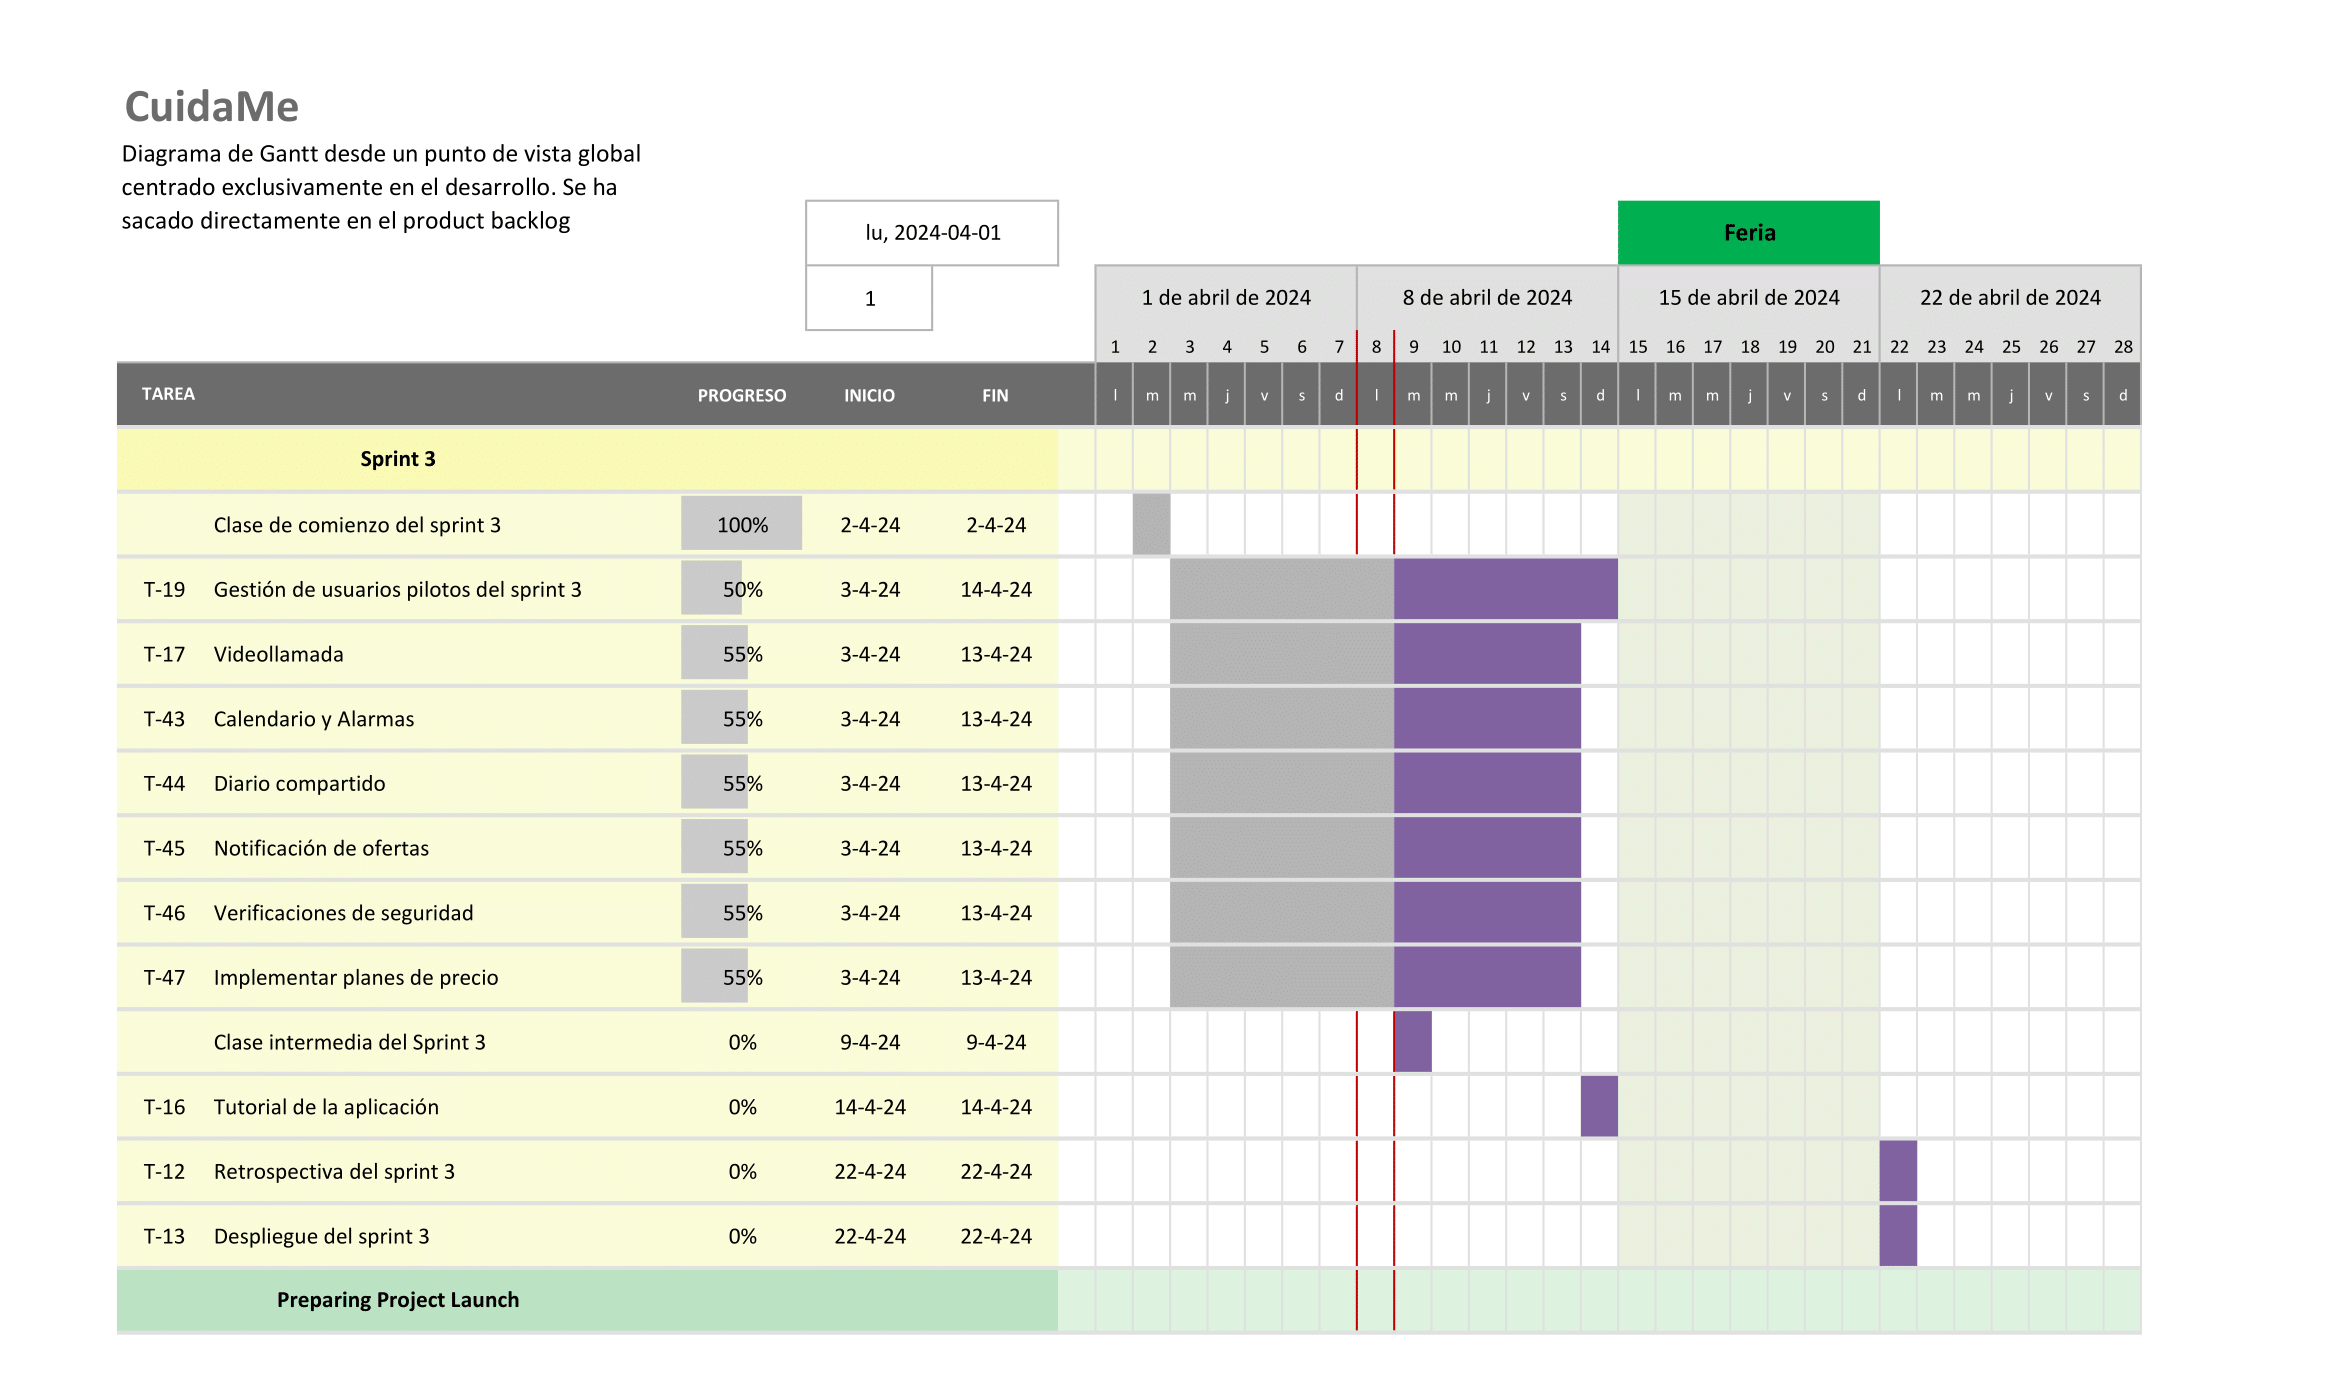
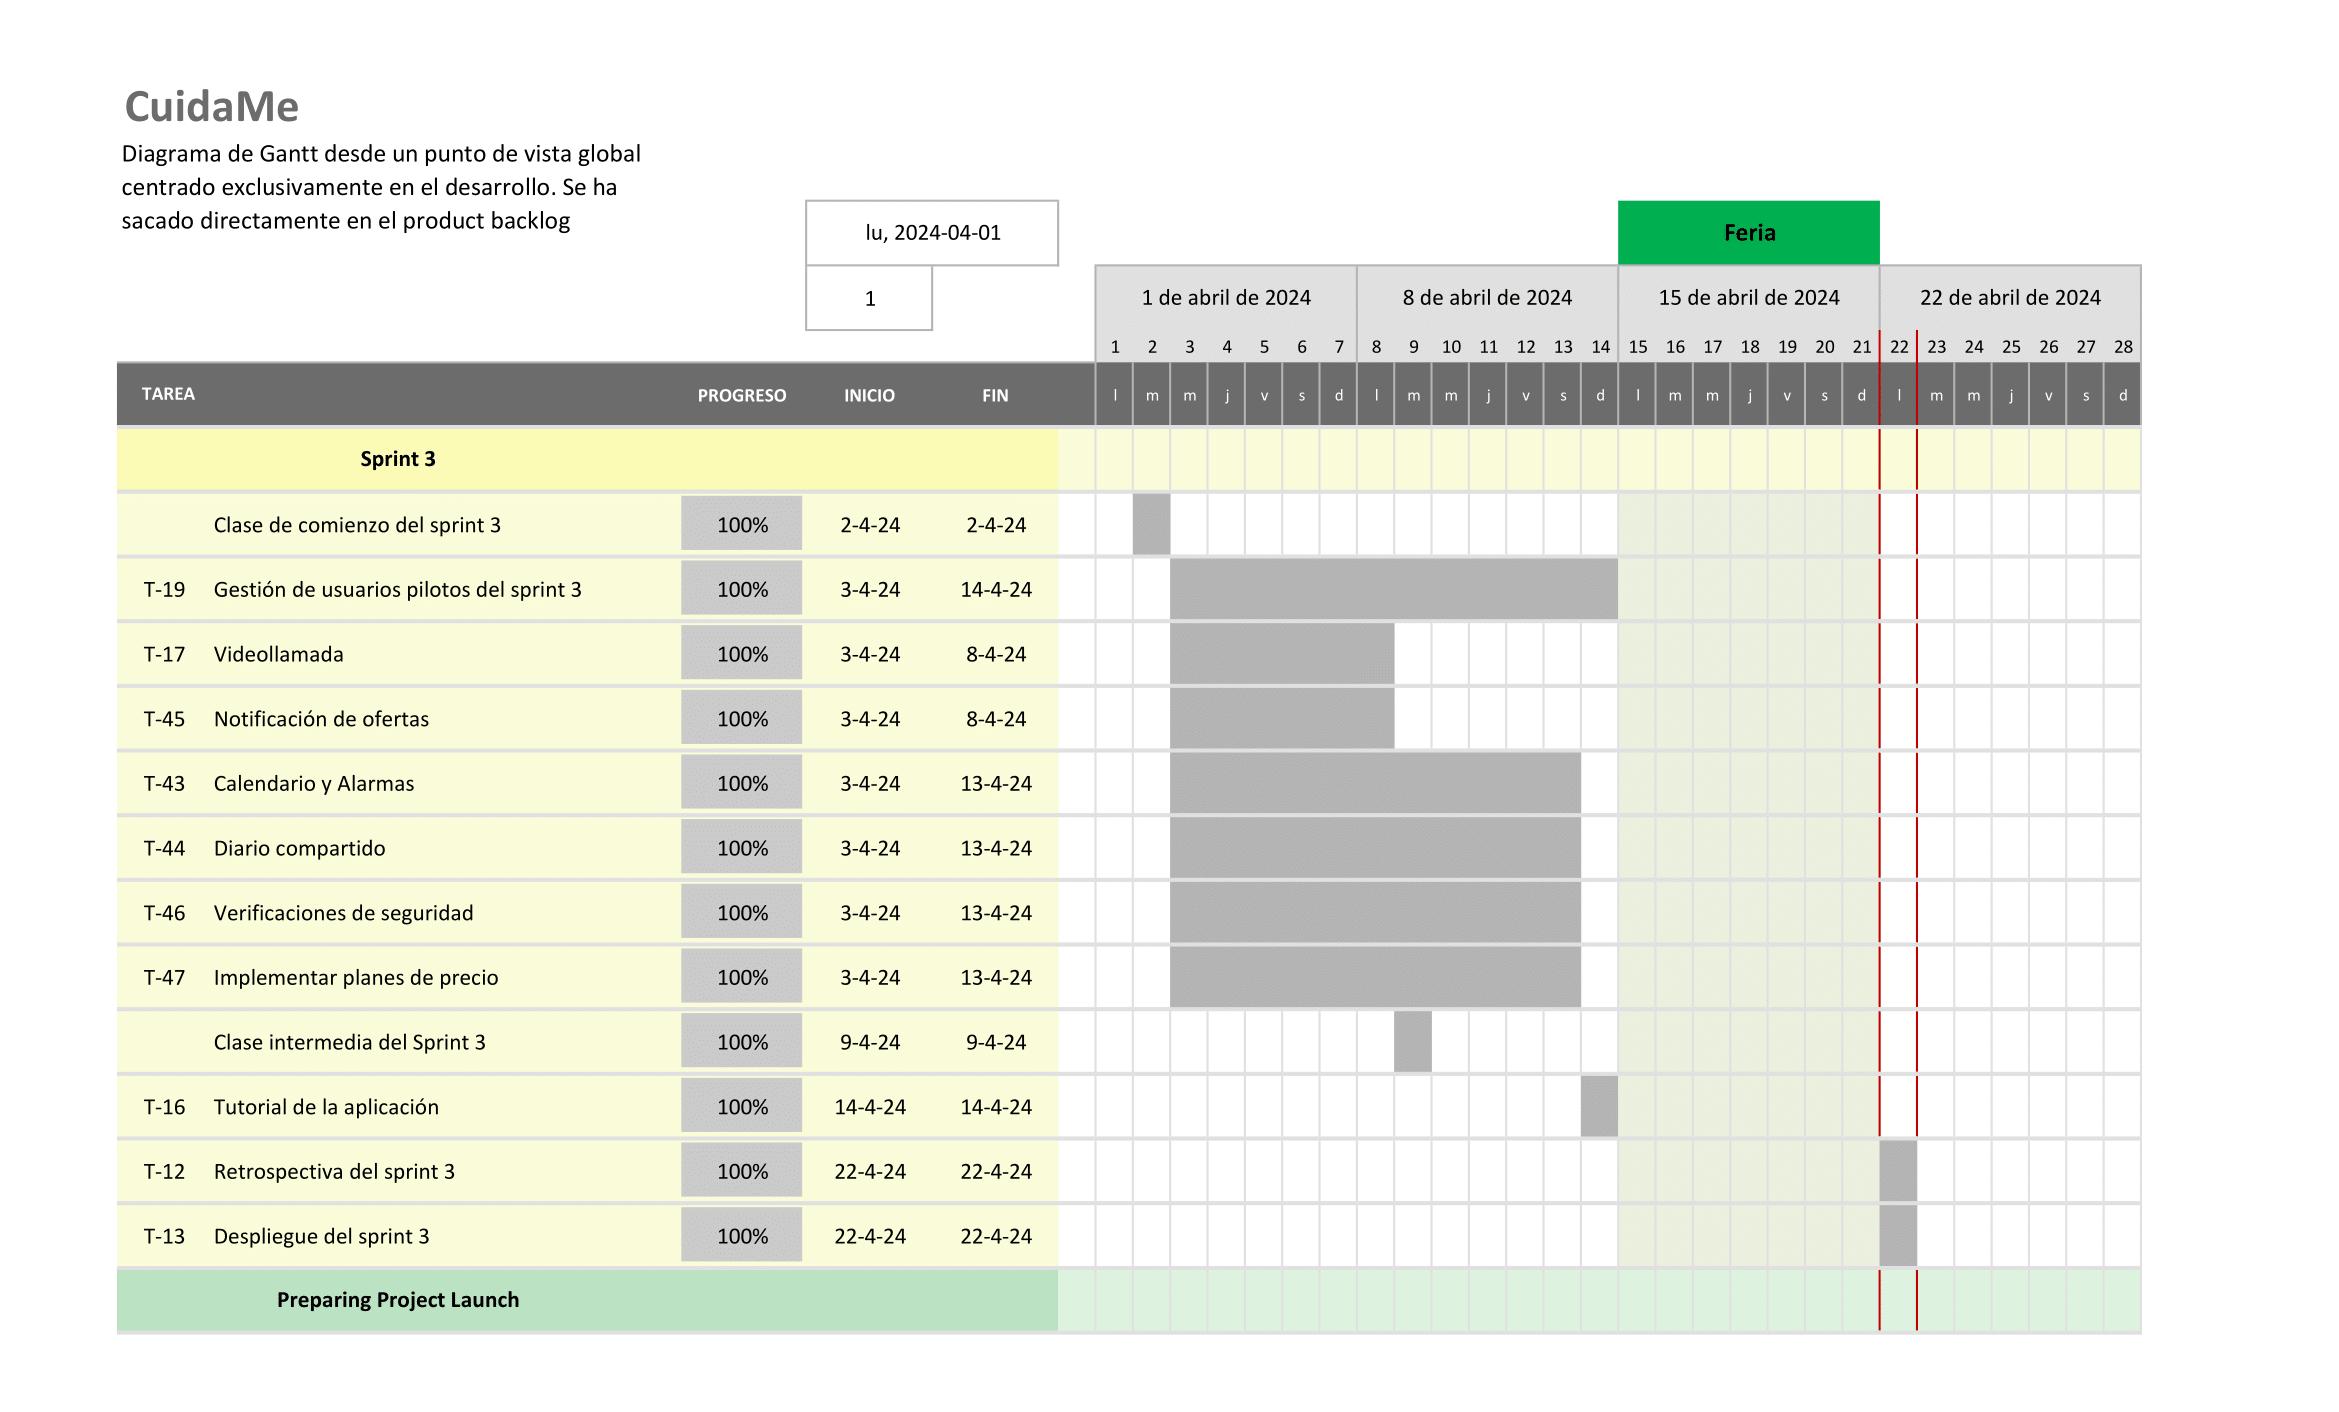
docs: Actualizar herramientas y tecnologías y diagrama de Gantt

diff --git a/cuidaMe-docs/docs/Herramientas y Tecnologías.md b/cuidaMe-docs/docs/Herramientas y Tecnologías.md
@@ -12,6 +12,7 @@
 |19/02/2024|v1.3|
 |04/03/2024|v.2.0|
 |05/04/2024|v.3.0|
+|22/04/2024|v.3.1|
 
 
 ## Introducción
@@ -185,56 +186,56 @@ Reloj Individual (Horas Restantes):
 
 |**Estudiante**|**Semana 0**|**Semana 1**|**Semana 2**|**Semana 3**|**Semana 4**|**Semana 5**|**Semana 6**|**Semana 7**|**Semana 8**|**Semana 9**|**Semana 10**|**Semana 11**|**Semana 12**|**Semana 13**|**Semana 14**|
 | :-: | :-: | :-: | :-: | :-: | :-: | :-: | :-: | :-: | :-: | :-: | :-: | :-: | :-: | :-: | :-: |
-|Abulatifa, Mohanad|140:00|132:38|119:26|111:15|97:39|86:26|78:51|61:22|60:49|-|-|-|-|-|-|
-|Castellano Alonso, Álvaro|140:00|129:55|118:08|108:14|95:10|80:11|69:29|59:59|46:42|-|-|-|-|-|-|
-|De La Prada Prados, Francisco Javier|140:00|130:08|116:18|104:23|94:03|86:03|75:33|65:28|54:19|-|-|-|-|-|-|
-|Del Río Pérez, Carlos|140:00|133:53|125:09|116:25|102:53|91:21|81:26|70:13|62:41|-|-|-|-|-|-|
-|Diáñez Suárez, Daniel|140:00|131:50|116:33|108:11|96:39|82:18|72:00|66:53|54:44|-|-|-|-|-|-|
-|García Galocha, Rafael David|140:00|131:19|120:38|110:19|100:09|85:04|73:20|64:19|53:36|-|-|-|-|-|-|
-|García Hernández, Cristina|140:00|130:05|119:49|107:55|97:27|75:25|65:45|56:49|25:06|-|-|-|-|-|-|
-|Granados López, Manuel J.|140:00|129:30|119:30|106:35|94:25|84:45|74:35|68:00|53:42|-|-|-|-|-|-|
-|Jiménez Del Villar, Juan Antonio|140:00|132:15|127:33|114:27|102:21|89:59|81:21|75:13|63:17|-|-|-|-|-|-|
-|León Madroñal, Juan Carlos|140:00|131:42|119:10|109:19|98:47|87:12|80:53|70:16|58:25|-|-|-|-|-|-|
-|Márquez González, Diego|140:00|129:00|116:51|102:49|90:22|84:15|74:04|64:13|53:25|-|-|-|-|-|-|
-|Pérez Romero, Lucía|140:00|130:10|120:10|107:00|87:51|77:43|67:41|52:21|31:51|-|-|-|-|-|-|
-|Restoy Barrero, Joaquín|140:00|132:45|122:04|109:53|96:47|83:06|74:18|69:24|51:06|-|-|-|-|-|-|
-|Suárez García, Antonio J.|140:00|136:00|134:00|118:24|107:05|85:45|79:17|75:04|60:07|-|-|-|-|-|-|
-|Vázquez Rodríguez, Fausto|140:00|133:53|121:49|110:09|95:42|80:37|69:39|59:38|46:45|-|-|-|-|-|-|
-|Vidal Tevar, Gabriel|140:00|136:00|127:39|118:31|109:18|100:58|94:58|85:46|66:29|-|-|-|-|-|-|
+|Abulatifa, Mohanad|140:00|132:38|119:26|111:15|97:39|86:26|78:51|61:22|60:49|55:31|41:20|-|-|-|-|
+|Castellano Alonso, Álvaro|140:00|129:55|118:08|108:14|95:10|80:11|69:29|59:59|46:42|33:02|24:22|-|-|-|-|
+|De La Prada Prados, Francisco Javier|140:00|130:08|116:18|104:23|94:03|86:03|75:33|65:28|54:19|44:19|35:14|-|-|-|-|
+|Del Río Pérez, Carlos|140:00|133:53|125:09|116:25|102:53|91:21|81:26|70:13|62:41|56:09|44:01|-|-|-|-|
+|Diáñez Suárez, Daniel|140:00|131:50|116:33|108:11|96:39|82:18|72:00|66:53|54:44|43:07|34:08|-|-|-|-|
+|García Galocha, Rafael David|140:00|131:19|120:38|110:19|100:09|85:04|73:20|64:19|53:36|42:50|32:22|-|-|-|-|
+|García Hernández, Cristina|140:00|130:05|119:49|107:55|97:27|75:25|65:45|56:49|25:06|19:06|-06:19|-|-|-|-|
+|Granados López, Manuel J.|140:00|129:30|119:30|106:35|94:25|84:45|74:35|68:00|53:42|43:42|33:57|-|-|-|-|
+|Jiménez Del Villar, Juan Antonio|140:00|132:15|127:33|114:27|102:21|89:59|81:21|75:13|63:17|53:02|22:01|-|-|-|-|
+|León Madroñal, Juan Carlos|140:00|131:42|119:10|109:19|98:47|87:12|80:53|70:16|58:25|48:19|38:23|-|-|-|-|
+|Márquez González, Diego|140:00|129:00|116:51|102:49|90:22|84:15|74:04|64:13|53:25|39:38|28:46|-|-|-|-|
+|Pérez Romero, Lucía|140:00|130:10|120:10|107:00|87:51|77:43|67:41|52:21|31:51|19:36|01:36|-|-|-|-|
+|Restoy Barrero, Joaquín|140:00|132:45|122:04|109:53|96:47|83:06|74:18|69:24|51:06|45:37|34:39|-|-|-|-|
+|Suárez García, Antonio J.|140:00|136:00|134:00|118:24|107:05|85:45|79:17|75:04|60:07|48:48|33:28|-|-|-|-|
+|Vázquez Rodríguez, Fausto|140:00|133:53|121:49|110:09|95:42|80:37|69:39|59:38|46:45|32:54|11:49|-|-|-|-|
+|Vidal Tevar, Gabriel|140:00|136:00|127:39|118:31|109:18|100:58|94:58|85:46|66:29|66:29|58:15|-|-|-|-|
 
 Reloj Individual (Horas Trabajadas):
 
 
 |**Estudiante**|**Semana 0**|**Semana 1**|**Semana 2**|**Semana 3**|**Semana 4**|**Semana 5**|**Semana 6**|**Semana 7**|**Semana 8**|**Semana 9**|**Semana 10**|**Semana 11**|**Semana 12**|**Semana 13**|**Semana 14**|
 | :-: | :-: | :-: | :-: | :-: | :-: | :-: | :-: | :-: | :-: | :-: | :-: | :-: | :-: | :-: | :-: |
-|Abulatifa, Mohanad|0:00|7:22|13:13|8:12|13:36|11:13|7:35|17:29|0:33|-|-|-|-|-|-|
-|Castellano Alonso, Álvaro|0:00|10:05|11:47|9:55|13:04|15:00|10:42|9:30|13:18|-|-|-|-|-|-|
-|De La Prada Prados, Francisco Javier|0:00|9:52|13:50|11:55|10:20|8:00|10:30|10:05|11:09|-|-|-|-|-|-|
-|Del Río Pérez, Carlos|0:00|6:07|8:45|8:44|13:33|11:33|9:56|11:13|7:32|-|-|-|-|-|-|
-|Diáñez Suárez, Daniel|0:00|8:10|15:17|8:23|11:32|14:22|10:18|5:08|12:10|-|-|-|-|-|-|
-|García Galocha, Rafael David|0:00|8:41|10:41|10:20|10:10|15:06|11:44|9:01|10:44|-|-|-|-|-|-|
-|García Hernández, Cristina|0:00|9:55|10:16|11:54|10:28|22:02|9:41|8:57|31:43|-|-|-|-|-|-|
-|Granados López, Manuel J.|0:00|10:30|10:00|12:55|12:10|9:40|10:10|6:35|14:18|-|-|-|-|-|-|
-|Jiménez Del Villar, Juan Antonio|0:00|7:45|4:42|13:07|12:06|12:23|8:38|6:08|11:57|-|-|-|-|-|-|
-|León Madroñal, Juan Carlos|0:00|8:18|12:32|9:52|10:32|11:36|6:19|10:38|11:52|-|-|-|-|-|-|
-|Márquez González, Diego|0:00|11:00|12:10|14:02|12:28|6:08|10:11|9:52|10:49|-|-|-|-|-|-|
-|Pérez Romero, Lucía|0:00|9:50|10:00|13:10|19:09|10:08|10:02|15:20|20:30|-|-|-|-|-|-|
-|Restoy Barrero, Joaquín|0:00|7:15|10:41|12:11|13:06|13:42|8:49|4:54|18:18|-|-|-|-|-|-|
-|Suárez García, Antonio J.|0:00|4:00|2:00|15:36|11:20|21:20|6:29|4:13|14:57|-|-|-|-|-|-|
-|Vázquez Rodríguez, Fausto|0:00|6:07|12:04|11:40|14:28|15:05|10:58|10:02|12:53|-|-|-|-|-|-|
-|Vidal Tevar, Gabriel|0:00|4:00|8:21|9:09|9:13|8:21|6:00|9:12|19:18|-|-|-|-|-|-|
+|Abulatifa, Mohanad|0:00|7:22|13:13|8:12|13:36|11:13|7:35|17:29|0:33|5:18|14:11|-|-|-|-|
+|Castellano Alonso, Álvaro|0:00|10:05|11:47|9:55|13:04|15:00|10:42|9:30|13:18|13:40|8:40|-|-|-|-|
+|De La Prada Prados, Francisco Javier|0:00|9:52|13:50|11:55|10:20|8:00|10:30|10:05|11:09|10:00|9:05|-|-|-|-|
+|Del Río Pérez, Carlos|0:00|6:07|8:45|8:44|13:33|11:33|9:56|11:13|7:32|6:33|12:08|-|-|-|-|
+|Diáñez Suárez, Daniel|0:00|8:10|15:17|8:23|11:32|14:22|10:18|5:08|12:10|11:38|8:59|-|-|-|-|
+|García Galocha, Rafael David|0:00|8:41|10:41|10:20|10:10|15:06|11:44|9:01|10:44|10:46|10:28|-|-|-|-|
+|García Hernández, Cristina|0:00|9:55|10:16|11:54|10:28|22:02|9:41|8:57|31:43|6:00|25:27|-|-|-|-|
+|Granados López, Manuel J.|0:00|10:30|10:00|12:55|12:10|9:40|10:10|6:35|14:18|10:00|9:45|-|-|-|-|
+|Jiménez Del Villar, Juan Antonio|0:00|7:45|4:42|13:07|12:06|12:23|8:38|6:08|11:57|10:15|31:01|-|-|-|-|
+|León Madroñal, Juan Carlos|0:00|8:18|12:32|9:52|10:32|11:36|6:19|10:38|11:52|10:07|9:56|-|-|-|-|
+|Márquez González, Diego|0:00|11:00|12:10|14:02|12:28|6:08|10:11|9:52|10:49|13:47|10:52|-|-|-|-|
+|Pérez Romero, Lucía|0:00|9:50|10:00|13:10|19:09|10:08|10:02|15:20|20:30|12:15|18:00|-|-|-|-|
+|Restoy Barrero, Joaquín|0:00|7:15|10:41|12:11|13:06|13:42|8:49|4:54|18:18|5:30|10:58|-|-|-|-|
+|Suárez García, Antonio J.|0:00|4:00|2:00|15:36|11:20|21:20|6:29|4:13|14:57|11:19|15:21|-|-|-|-|
+|Vázquez Rodríguez, Fausto|0:00|6:07|12:04|11:40|14:28|15:05|10:58|10:02|12:53|13:52|21:06|-|-|-|-|
+|Vidal Tevar, Gabriel|0:00|4:00|8:21|9:09|9:13|8:21|6:00|9:12|19:18|0:00|8:14|-|-|-|-|
 
 Reloj Colectivo:
 
 
 |**Métrica**|**Semana 0**|**Semana 1**|**Semana 2**|**Semana 3**|**Semana 4**|**Semana 5**|**Semana 6**|**Semana 7**|**Semana 8**|**Semana 9**|**Semana 10**|**Semana 11**|**Semana 12**|**Semana 13**|**Semana 14**|
 | :-: | :-: | :-: | :-: | :-: | :-: | :-: | :-: | :-: | :-: | :-: | :-: | :-: | :-: | :-: | :-: |
-|Media de horas realizadas|0:00|8:04|10:24|11:19|12:20|12:51|9:15|9:16|13:53|-|-|-|-|-|-|
-|Media de horas realizadas (+10%)|0:00|8:52|11:26|12:27|13:34|14:08|10:11|10:12|15:16|-|-|-|-|-|-|
-|Media de horas realizadas (+40%)|0:00|11:17|14:33|15:51|17:16|18:00|12:57|12:58|19:26|-|-|-|-|-|-|
-|Media de horas realizadas (-10%)|0:00|7:16|9:21|10:11|11:06|11:34|8:20|8:21|12:30|-|-|-|-|-|-|
-|Media de horas realizadas (-40%)|0:00|4:51|6:14|6:48|7:24|7:43|5:33|5:34|8:20|-|-|-|-|-|-|
-|Decremento de horas totales|2240:00|2111:05|1944:54|1763:57|1566:47|1361:13|1213:18|1065:07|843:11|-|-|-|-|-|-|
+|Media de horas realizadas|0:00|8:04|10:24|11:19|12:20|12:51|9:15|9:16|13:53|9:26|14:01|-|-|-|-|
+|Media de horas realizadas (+10%)|0:00|8:52|11:26|12:27|13:34|14:08|10:11|10:12|15:16|10:23|15:25|-|-|-|-|
+|Media de horas realizadas (+40%)|0:00|11:17|14:33|15:51|17:16|18:00|12:57|12:58|19:26|13:13|19:37|-|-|-|-|
+|Media de horas realizadas (-10%)|0:00|7:16|9:21|10:11|11:06|11:34|8:20|8:21|12:30|8:30|12:37|-|-|-|-|
+|Media de horas realizadas (-40%)|0:00|4:51|6:14|6:48|7:24|7:43|5:33|5:34|8:20|5:40|8:25|-|-|-|-|
+|Decremento de horas totales|2240:00|2111:05|1944:54|1763:57|1566:47|1361:13|1213:18|1065:07|843:11|692:16|468:09|-|-|-|-|
 |Decremento de horas esperado|2240:00|2080:00|1920:00|1760:00|1600:00|1440:00|1280:00|1120:00|960:00|800:00|640:00|480:00|320:00|160:00|0:00|
 
 
@@ -246,8 +247,8 @@ En la siguiente tabla se muestra el incremento que ha habido cada semana en las 
 
 |**Métrica**|**Semana 0**|**Semana 1**|**Semana 2**|**Semana 3**|**Semana 4**|**Semana 5**|**Semana 6**|**Semana 7**|**Semana 8**|**Semana 9**|**Semana 10**|**Semana 11**|**Semana 12**|**Semana 13**|**Semana 14**|**Total**|
 | :-: | :-: | :-: | :-: | :-: | :-: | :-: | :-: | :-: | :-: | :-: | :-: | :-: | :-: | :-: | :-: | :-: |
-|Líneas de Código|0|2|0|19071|-16323|1355|854|5|36320|-|-|-|-|-|-|41284|
-|Número de Ficheros|0|1|0|31|23|26|0|0|205|-|-|-|-|-|-|286|
+|Líneas de Código|0|2|0|19071|-16323|1355|854|5|36320|0|3075|-|-|-|-|44359|
+|Número de Ficheros|0|1|0|31|23|26|0|0|205|0|25|-|-|-|-|311|
 
 
 Además, para medir el uso de los beneficios del repositorio de código se emplearán las métricas a nivel de grupo de: número de commits realizados; el número de ramas creadas; el número de incidencias (issues) creadas, cerradas y comentadas; y el número de pull requests, creadas y comentadas. Todas las herramientas que se emplean están presentes por defecto en GitHub, como: el seguimiento efectivo gracias al historial de commits, las secciones de issues o de pull requests y la observación de tareas en el tablero kanban.
@@ -257,17 +258,17 @@ En la siguiente tabla se muestra el incremento que ha habido cada semana en las 
 
 |**Métrica**|**Semana 0**|**Semana 1**|**Semana 2**|**Semana 3**|**Semana 4**|**Semana 5**|**Semana 6**|**Semana 7**|**Semana 8**|**Semana 9**|**Semana 10**|**Semana 11**|**Semana 12**|**Semana 13**|**Semana 14**|**Total**|
 | :-: | :-: | :-: | :-: | :-: | :-: | :-: | :-: | :-: | :-: | :-: | :-: | :-: | :-: | :-: | :-: | :-: |
-|Número de Commits|0|1|0|10|47|157|21|1|283|-|-|-|-|-|-|516|
-|Número de Ramas|*|*|*|*|*|*|44|13|9|-|-|-|-|-|-|66|
-|Número de Incidencias Creadas|0|0|18|21|26|26|15|24|8|-|-|-|-|-|-|138|
-|Número de Incidencias Cerradas|*|*|*|*|*|*|74|21|13|-|-|-|-|-|-|108|
-|Número de Incidencias con Comentarios|*|*|*|*|*|*|45|14|9|-|-|-|-|-|-|68|
-|Número Comentarios en Incidencias|*|*|*|*|*|*|80|47|22|-|-|-|-|-|-|149|
-|Media de Comentarios por Incidencia|*|*|*|*|*|*|1.78|3.36|2.44|-|-|-|-|-|-|2.19|
-|Número de Pull Requests|*|*|*|*|*|*|52|9|15|-|-|-|-|-|-|76|
-|Número de Pull Requests con Comentarios|*|*|*|*|*|*|33|10|14|-|-|-|-|-|-|57|
-|Número Comentarios en Pull Requests|*|*|*|*|*|*|87|28|68|-|-|-|-|-|-|183|
-|Media de Comentarios por Pull Request|*|*|*|*|*|*|2.64|2.8|4.86|-|-|-|-|-|-|3.21|
+|Número de Commits|0|1|0|10|47|157|21|1|283|3|221|-|-|-|-|740|
+|Número de Ramas|*|*|*|*|*|*|44|13|9|12|8|-|-|-|-|86|
+|Número de Incidencias Creadas|0|0|18|21|26|26|15|24|8|36|4|-|-|-|-|178|
+|Número de Incidencias Cerradas|*|*|*|*|*|*|74|21|13|-1|9|-|-|-|-|116|
+|Número de Incidencias con Comentarios|*|*|*|*|*|*|45|14|9|17|3|-|-|-|-|88|
+|Número Comentarios en Incidencias|*|*|*|*|*|*|80|47|22|35|4|-|-|-|-|188|
+|Media de Comentarios por Incidencia|*|*|*|*|*|*|1.78|3.36|2.44|2.05|1.33|-|-|-|-|2.14|
+|Número de Pull Requests|*|*|*|*|*|*|52|9|15|7|13|-|-|-|-|96|
+|Número de Pull Requests con Comentarios|*|*|*|*|*|*|33|10|14|7|12|-|-|-|-|76|
+|Número Comentarios en Pull Requests|*|*|*|*|*|*|87|28|68|16|65|-|-|-|-|264|
+|Media de Comentarios por Pull Request|*|*|*|*|*|*|2.64|2.8|4.86|2.29|5.42|-|-|-|-|3.47|
 
 - El color amarillo (*) significa que no se han recogio o no se van a recoger estadísticas en ese periódo.
 
@@ -279,7 +280,7 @@ En la siguiente tabla se muestra el incremento que ha habido cada semana en las 
 
 |**Métrica**|**Semana 0**|**Semana 1**|**Semana 2**|**Semana 3**|**Semana 4**|**Semana 5**|**Semana 6**|**Semana 7**|**Semana 8**|**Semana 9**|**Semana 10**|**Semana 11**|**Semana 12**|**Semana 13**|**Semana 14**|**Total**|
 | :-: | :-: | :-: | :-: | :-: | :-: | :-: | :-: | :-: | :-: | :-: | :-: | :-: | :-: | :-: | :-: | :-: |
-|Número de Archivos|0|32|29|45|71|39|16|15|32|-|-|-|-|-|-|279|
+|Número de Archivos|0|32|29|45|71|39|16|15|32|10|30|-|-|-|-|319|
 
 
 ### Comunicación - Discord
@@ -291,8 +292,8 @@ En la siguiente tabla se muestra el incremento que ha habido cada semana en las 
 
 |**Métrica**|**Semana 0**|**Semana 1**|**Semana 2**|**Semana 3**|**Semana 4**|**Semana 5**|**Semana 6**|**Semana 7**|**Semana 8**|**Semana 9**|**Semana 10**|**Semana 11**|**Semana 12**|**Semana 13**|**Semana 14**|**Total**|
 | :-: | :-: | :-: | :-: | :-: | :-: | :-: | :-: | :-: | :-: | :-: | :-: | :-: | :-: | :-: | :-: | :-: |
-|Número de Reuniones|0|1|1|3|2|2|1|1|1|-|-|-|-|-|-|12|
-|Tiempo de Reuniones|0:00|2:00|2:00|3:50|4:20|5:00|1:10|2:00|1:50|-|-|-|-|-|-|21:10|
+|Número de Reuniones|0|1|1|3|2|2|1|1|1|1|0|-|-|-|-|13|
+|Tiempo de Reuniones|0:00|2:00|2:00|3:50|4:20|5:00|1:10|2:00|1:50|1:30|0|-|-|-|-|22:40|
 
 
 Dado que no se prevé que cambie la estructura del servidor creado en Discord, las siguientes estadísticas se presuponen de carácter estático:
@@ -329,8 +330,8 @@ En la siguiente tabla se muestra el incremento que ha habido cada semana en las 
 
 |**Métrica**|**Semana 0**|**Semana 1**|**Semana 2**|**Semana 3**|**Semana 4**|**Semana 5**|**Semana 6**|**Semana 7**|**Semana 8**|**Semana 9**|**Semana 10**|**Semana 11**|**Semana 12**|**Semana 13**|**Semana 14**|**Total**|
 | :-: | :-: | :-: | :-: | :-: | :-: | :-: | :-: | :-: | :-: | :-: | :-: | :-: | :-: | :-: | :-: | :-: |
-|Número de Páginas|*|*|*|*|*|*|72|0|12|-|-|-|-|-|-|84|
-|Número de Líneas|*|*|*|*|*|*|4579|0|918|-|-|-|-|-|-|5497|
+|Número de Páginas|*|*|*|*|*|*|72|0|12|0|4|-|-|-|-|88|
+|Número de Líneas|*|*|*|*|*|*|4579|0|918|47|539|-|-|-|-|6083|
 
 - El color amarillo (*) significa que no se han recogio o no se van a recoger estadísticas en ese periódo.
 
